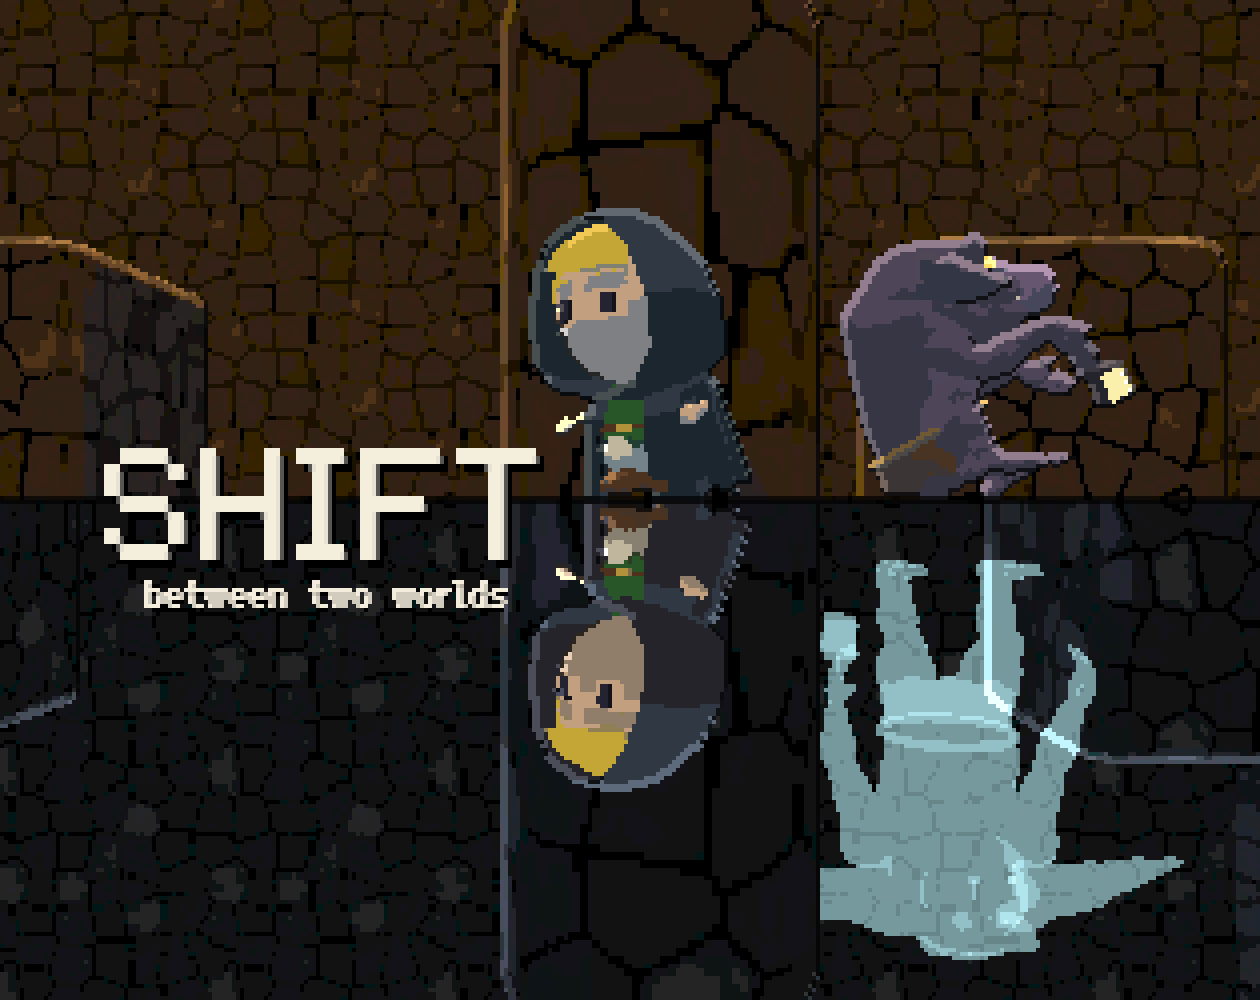
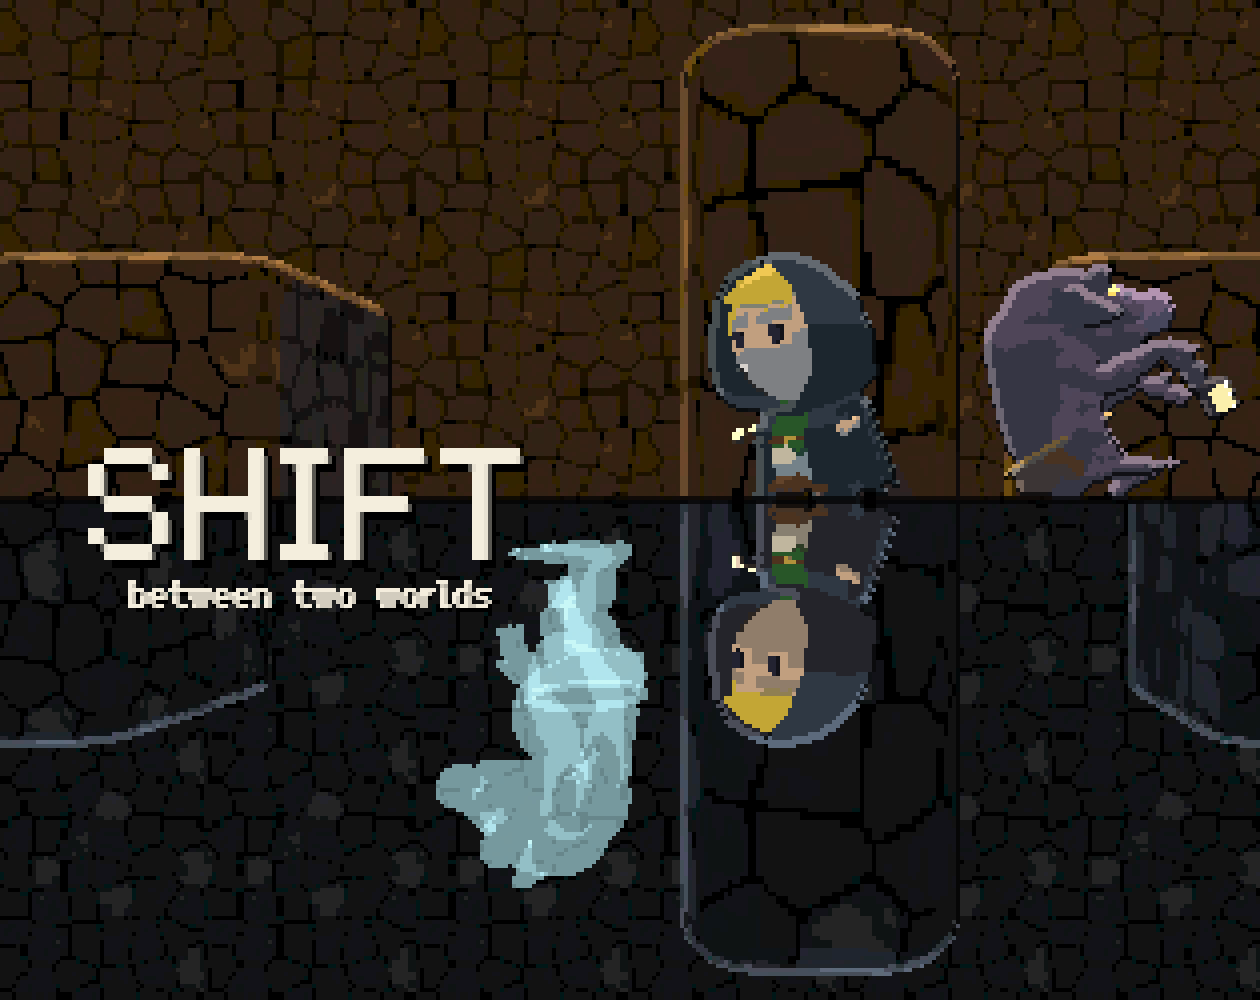
feat: set the cover's two trolls corner to corner across the pillar
- the surface troll still sits right of the pillar; the underside ghost now stands left of it, looking away to the left
- the hero and pillar move right to make room for the ghost between the subtitle and the pillar
- the studio turns each monster to its level facing, since a two-point path would otherwise face it along the path
- the itch layout pulls the camera back a little and moves the words left, so nothing is cut off or overlaps
- the README's picture caption says where each troll is

diff --git a/src/cover/main.ts b/src/cover/main.ts
@@ -66,15 +66,15 @@ const LEVEL = {
         '###################',
       ],
       props: {},
-      // a ghost standing at the hero's pillar, looking out toward us, over the hero (two path points keep it on its feet)
-      monsters: [{ id: 'b', path: [[13, 6], [13, 7]], mode: 'pingpong', speed: 1.6, pause: 0.6, viewRadius: 5, viewAngle: 70, facing: 100 }],
+      // a ghost standing at the left of the hero's pillar, looking away to the left (two path points keep it on its feet)
+      monsters: [{ id: 'b', path: [[11, 6], [11, 7]], mode: 'pingpong', speed: 1.6, pause: 0.6, viewRadius: 5, viewAngle: 70, facing: 180 }],
     },
   ],
 };
 
 /** Where each monster stands, off the cell centres its path allows: right up against the pillar (whose right face is
  *  x = 13). */
-const MONSTER_AT: Record<string, [number, number]> = { a: [13.4, 6.5], b: [13.45, 6.5] };
+const MONSTER_AT: Record<string, [number, number]> = { a: [13.4, 6.5], b: [11.65, 6.5] };
 
 /** One half of the picture: which dimension, the camera, and where in the rendered frame the half is cut from. */
 interface Half {
@@ -105,14 +105,14 @@ interface Layout {
 
 const LAYOUTS: Record<string, Layout> = {
   itch: {
-    w: 315, h: 250, seam: 125, hero: [165, 125],
-    top: { dim: 0, eye: 0, dist: 2.4, frame: [460, 250] },
-    bottom: { dim: 1, eye: 0, dist: 2.4, frame: [460, 250] },
-    title: { size: 40, x: 82, y: 140 },
-    sub: { size: 10, x: 82, y: 152 },
+    w: 315, h: 250, seam: 125, hero: [205, 125],
+    top: { dim: 0, eye: 0, dist: 2.8, frame: [460, 250] },
+    bottom: { dim: 1, eye: 0, dist: 2.8, frame: [460, 250] },
+    title: { size: 40, x: 78, y: 140 },
+    sub: { size: 10, x: 78, y: 152 },
   },
   wide: {
-    w: 640, h: 360, seam: 180, hero: [360, 180],
+    w: 640, h: 360, seam: 180, hero: [400, 180],
     top: { dim: 0, eye: 0, dist: 2.4, frame: [840, 360] },
     bottom: { dim: 1, eye: 0, dist: 2.4, frame: [840, 360] },
     title: { size: 60, x: 190, y: 202 },
@@ -136,7 +136,11 @@ function half(h: Half, w: number, hh: number, at: [number, number]): HTMLCanvasE
   // crouched still against the pillar, out of sight
   sim.moving = false;
   sim.facing = HERO_FACING;
-  for (const m of sim.monsters) [m.x, m.y] = MONSTER_AT[m.def.id] ?? [m.x, m.y];
+  for (const m of sim.monsters) {
+    [m.x, m.y] = MONSTER_AT[m.def.id] ?? [m.x, m.y];
+    // a patrol faces along its path; these stand still, facing where the level says
+    m.angle = (m.def.facing * Math.PI) / 180;
+  }
   view.setSim(sim);
   view.pipeline.pixelSize = 1;
   const size = view.pipeline.resize(h.frame[0], h.frame[1]);

diff --git a/README.md b/README.md
@@ -1,6 +1,6 @@
 # SHIFT
 
-![SHIFT：上半是表次元，主角躲在柱子前，山怪坐在柱子另一側；下半是裏次元的倒影，幽靈山怪站在柱邊](docs/cover.png)
+![SHIFT：上半是表次元，主角躲在柱子前，山怪坐在柱子右側；下半是裏次元的倒影，幽靈山怪站在柱子左側](docs/cover.png)
 
 兩個重疊次元的潛行探索遊戲 + 關卡編輯器。設計規則見 [DESIGN.md](DESIGN.md)（遊戲與引擎的唯一準則）。
 
